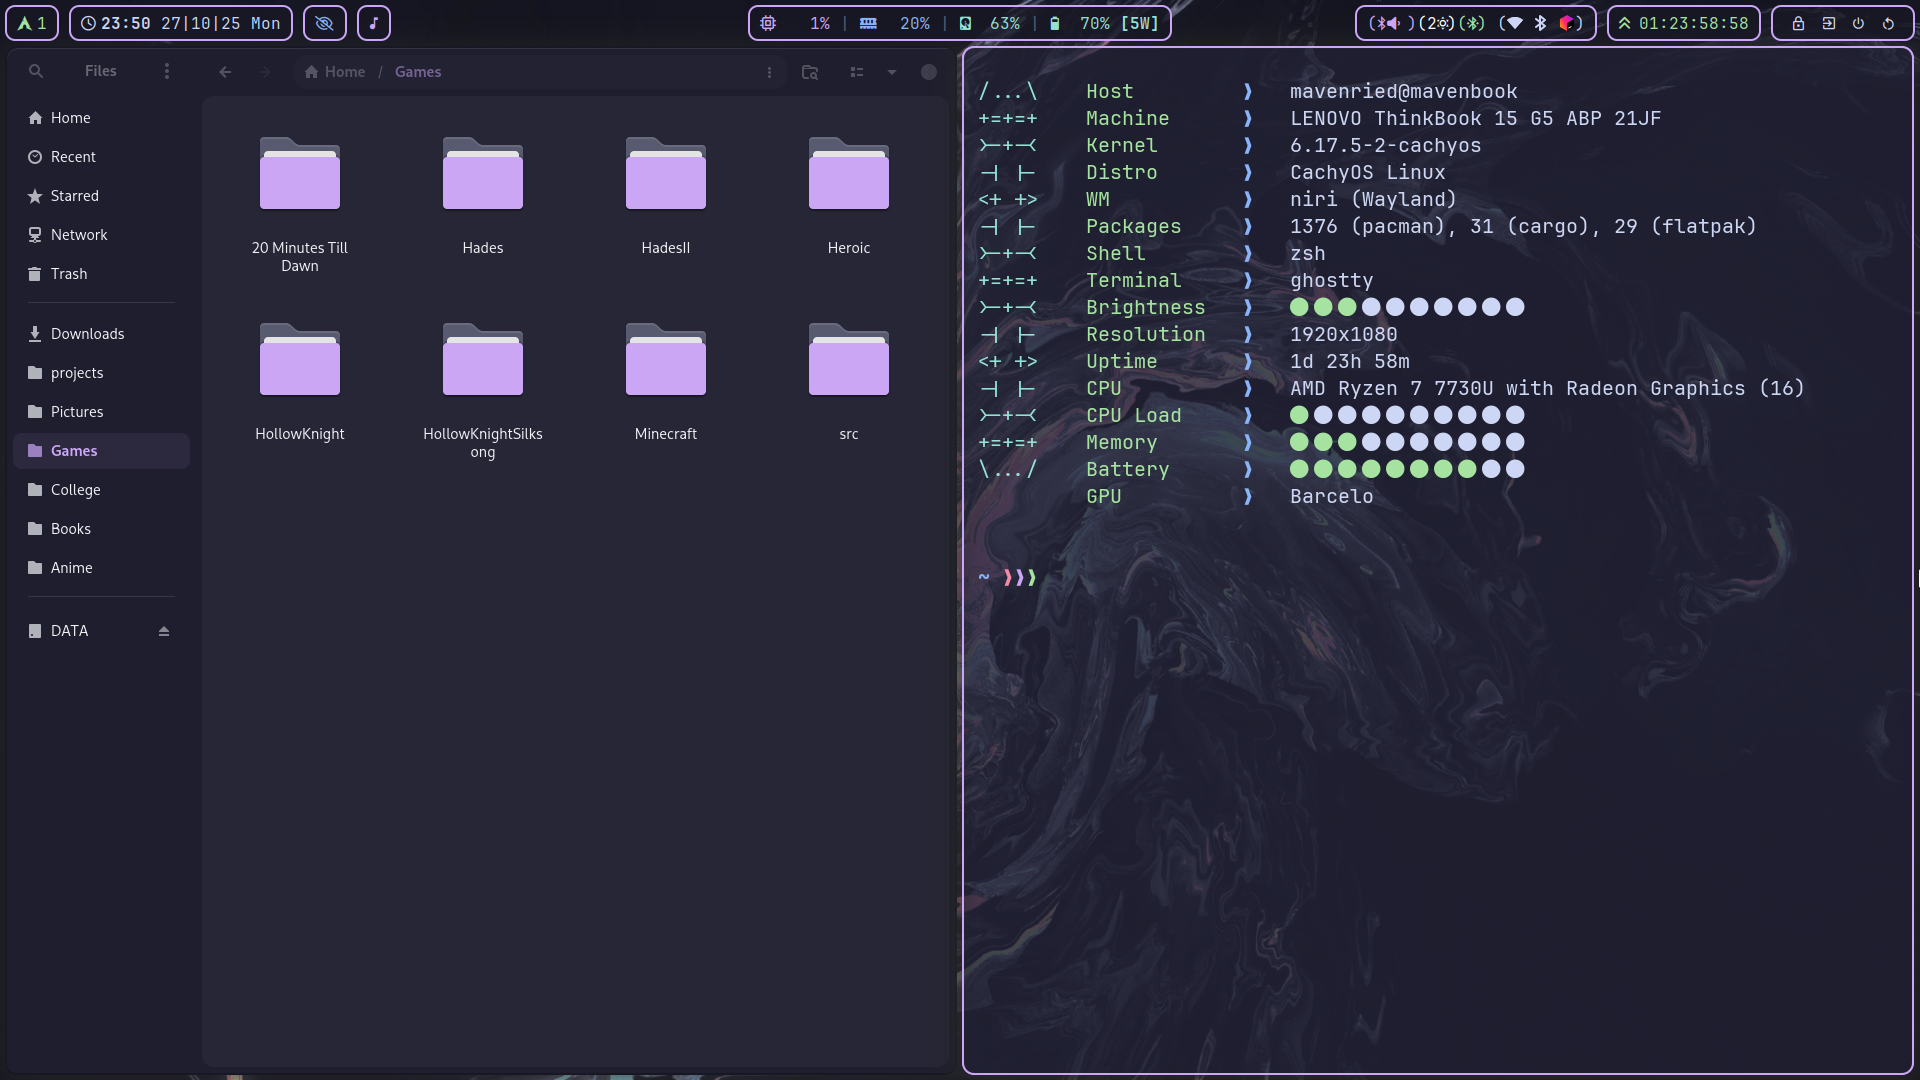
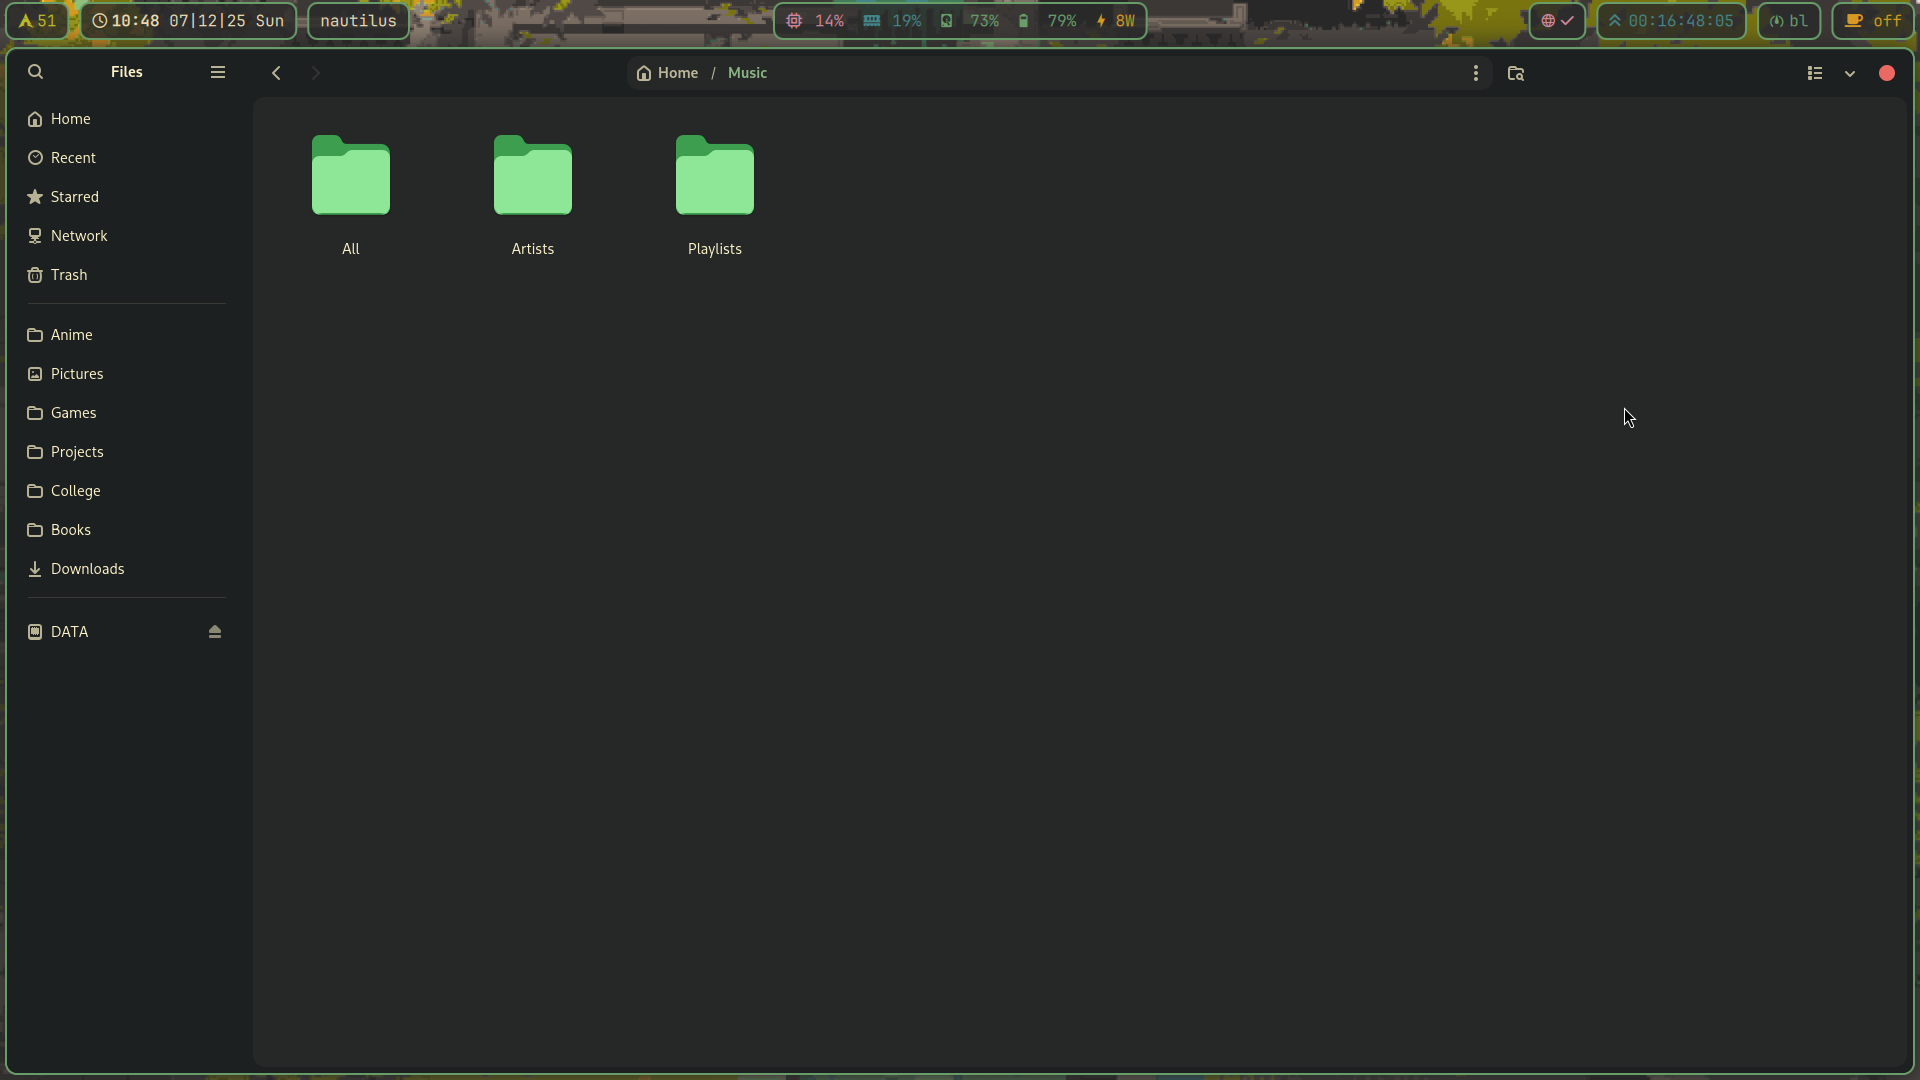
update images

diff --git a/quickshell/Accent.qml b/quickshell/Accent.qml
@@ -4,5 +4,5 @@ import Quickshell
 import QtQuick
 
 Singleton {
-    readonly property color acct: "#cba6f7"
+    readonly property color acct: "#689d6a"
 }

diff --git a/gtk-4.0/gtk-dark.css b/gtk-4.0/gtk-dark.css
@@ -1,1 +1,1 @@
-/home/mavenried/.themes/Catppuccin-Purple-Dark/gtk-4.0/gtk-dark.css
+/home/mavenried/.themes/Gruvbox-Teal-Dark/gtk-4.0/gtk-dark.css

diff --git a/gtk-4.0/gtk.css b/gtk-4.0/gtk.css
@@ -1,1 +1,1 @@
-/home/mavenried/.themes/Catppuccin-Purple-Dark/gtk-4.0/gtk.css
+/home/mavenried/.themes/Gruvbox-Teal-Dark/gtk-4.0/gtk.css

diff --git a/quickshell/Theme.qml b/quickshell/Theme.qml
@@ -1,1 +1,1 @@
-/home/mavenried/.config/quickshell/themes/CatppuccinMocha.qml
+/home/mavenried/.config/quickshell/themes/GruvboxDark.qml

diff --git a/waybar/colors.css b/waybar/colors.css
@@ -1,1 +1,1 @@
-/home/mavenried/.config/waybar/colors/catppuccin-mocha.css
+/home/mavenried/.config/waybar/colors/gruvbox.css

diff --git a/waybar/accent.css b/waybar/accent.css
@@ -1,2 +1,2 @@
 @import url('colors.css');
-@define-color hl @mauve;
+@define-color hl @aqua;
